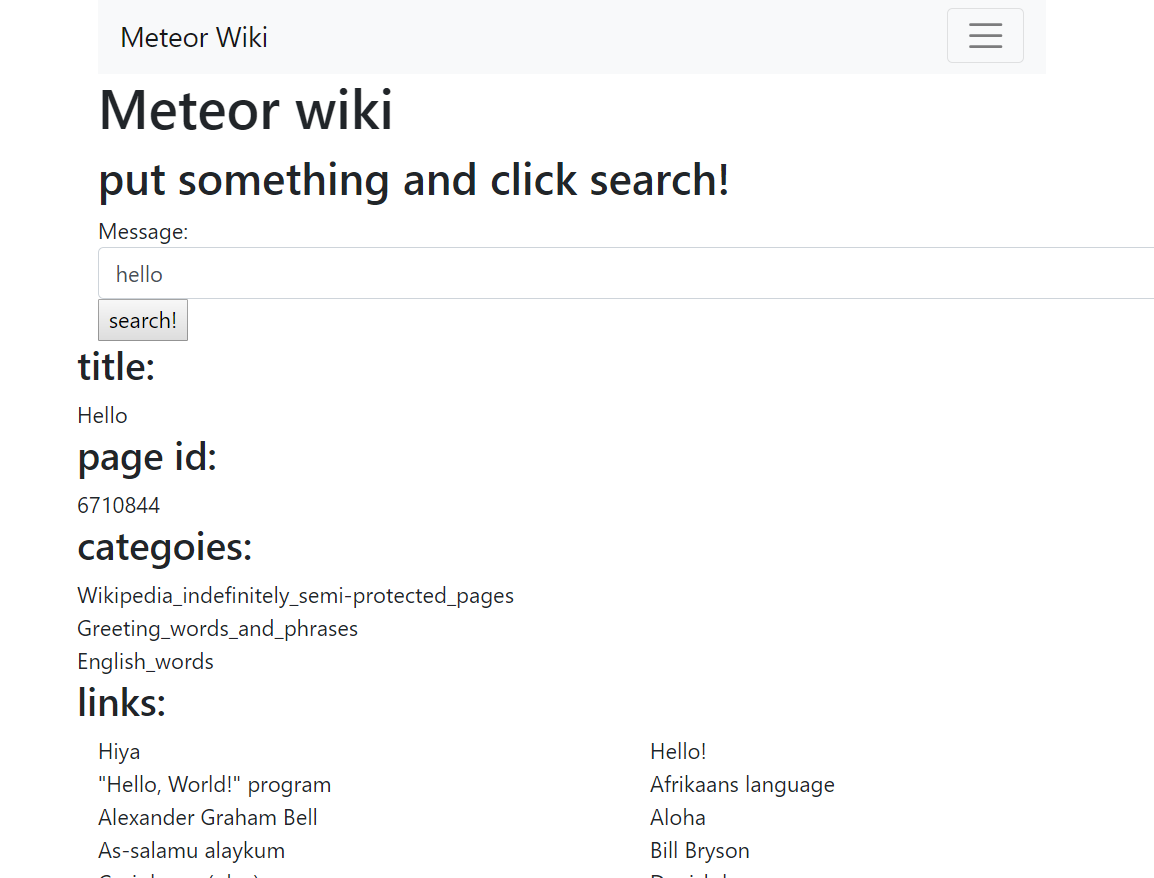
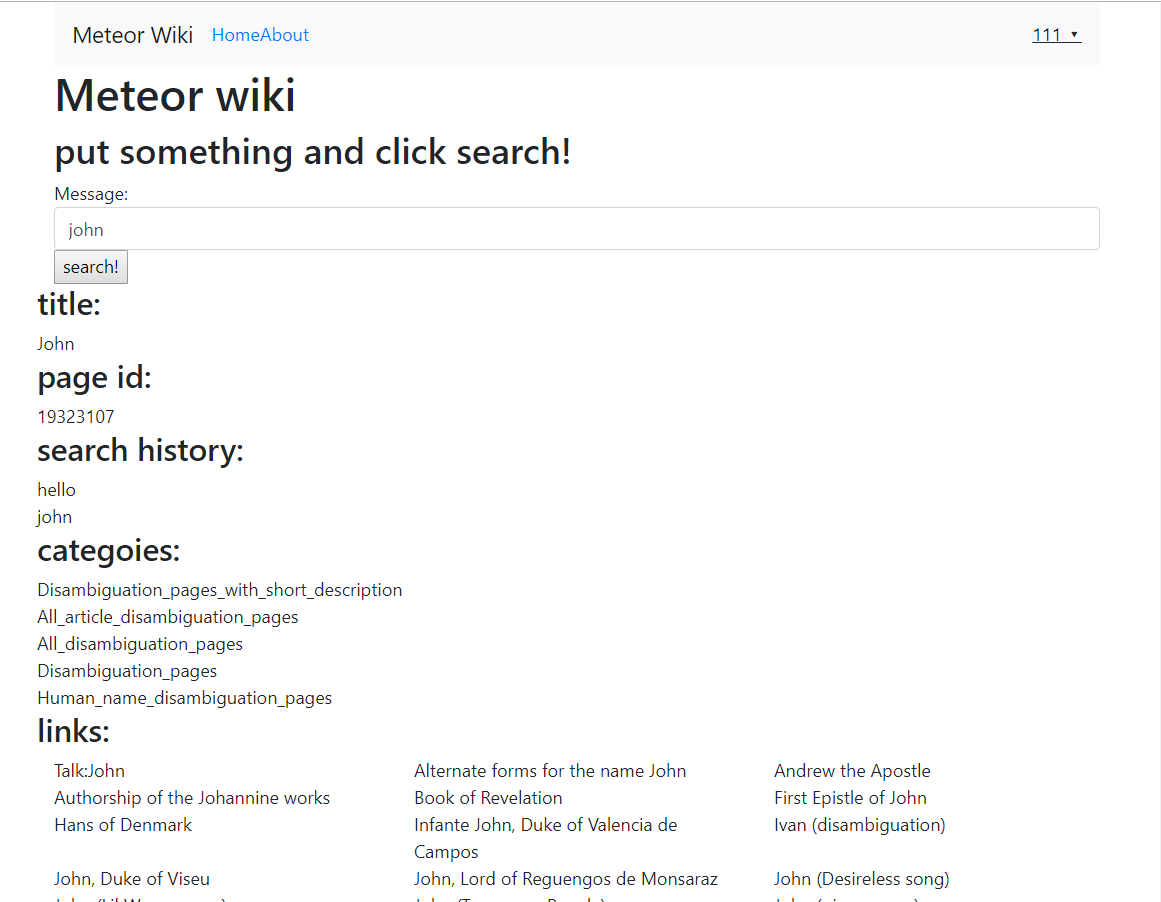
add search history

diff --git a/imports/ui/wiki.jsx b/imports/ui/wiki.jsx
@@ -59,7 +59,7 @@ class Wiki extends Component {
   }
 
   onChange(evt) {
-    console.log("change", evt.target.value);
+    //console.log("change", evt.target.value);
     this.setState({
       message: evt.target.value
     });
@@ -84,9 +84,9 @@ class Wiki extends Component {
         }
       });
     var newHistory = this.state.history;
-    console.log("history", this.state.history);
+    //console.log("history", this.state.history);
     newHistory.push(this.state.message);
-    console.log("new history", newHistory);
+    //console.log("new history", newHistory);
     this.setState({history: newHistory});
 
 
